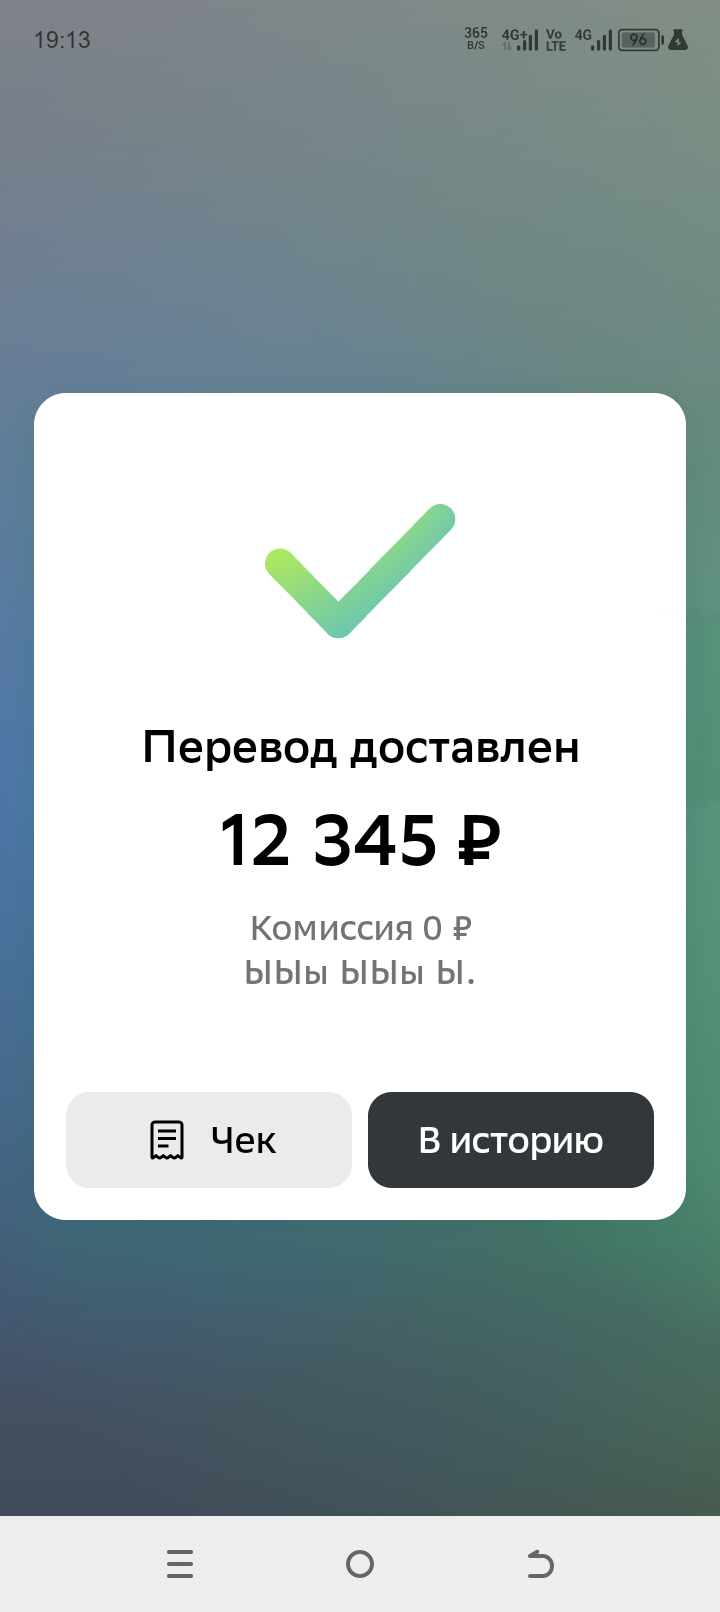
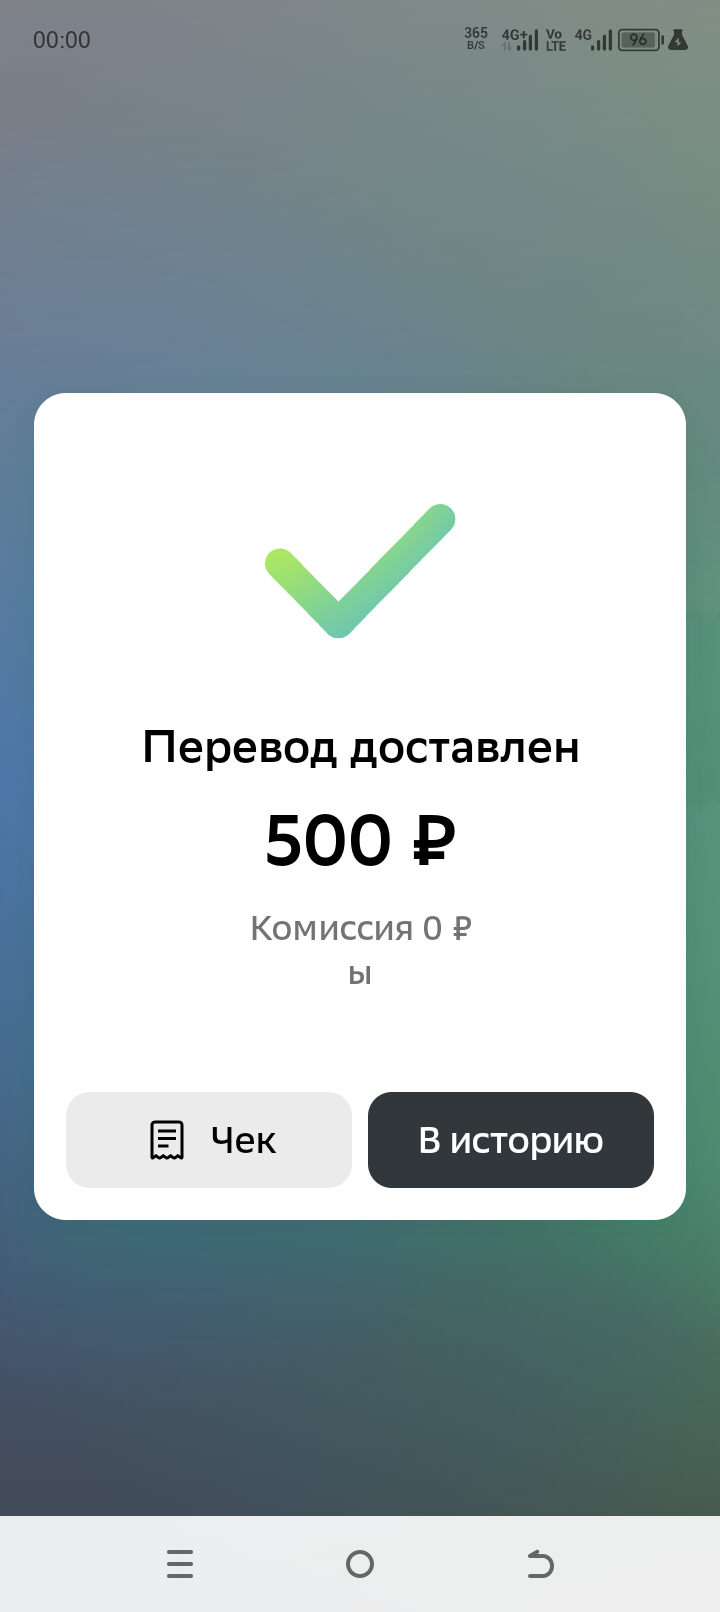
Add time input

diff --git a/features/screen_2/image_handler.py b/features/screen_2/image_handler.py
@@ -17,6 +17,7 @@ router = Router()
 class UserState_2(StatesGroup):
     entering_num = State()
     entering_name = State()
+    entering_time = State()
     getting_result = State()
 
 
@@ -25,8 +26,7 @@ async def cmd_num(message: Message, state: FSMContext):
     await config.save_user(message=message)
     await state.set_state(UserState_2.entering_num)
     
-    await message.answer("Введите сумму 💰:")
-
+    await message.answer("Введите сумму 💰: \n(без точек и пробелов)")
 
 @router.message(UserState_2.entering_num)
 async def enter_sum(message: Message, state: FSMContext):
@@ -37,7 +37,7 @@ async def enter_sum(message: Message, state: FSMContext):
         await state.update_data(num=num)
         await state.set_state(UserState_2.entering_name)
 
-        await message.answer(f"Введите данные получателя ✍:")
+        await message.answer(f"Введите данные получателя ✍: \n(прим. Иван Иванович И.)")
     else:
         await message.answer(f"❌Неверный формат строки: используйте только цифры, без пробелов и символов!")
 
@@ -47,8 +47,23 @@ async def enter_name(message: Message, state: FSMContext):
     name = message.text.replace('\n', '1')
     
     if not re.findall('\d', name):
+        await state.update_data(name=name)
+        await state.set_state(UserState_2.entering_time)
+
+        await message.answer(f"Введите время 🕑: \n(прим. 12:34)")
+
+    else:
+        
+        await message.answer(f"❌Неверный формат строки: используйте только буквы, без цифр!")
+
+@router.message(UserState_2.entering_time)
+async def enter_name(message: Message, state: FSMContext):
+    time = message.text
+    
+    if bool(re.match(r"[0-2][0-9]:[0-5][0-9]", time)):
         data = await state.get_data()
         num = data['num']
+        name = data['name']
         await state.set_state(UserState_2.getting_result)
 
         await message.answer(f"Получение результата, ждите ⏳")
@@ -56,7 +71,7 @@ async def enter_name(message: Message, state: FSMContext):
         # time.sleep(3.0)
         # await asyncio.sleep(3.0)
         process = ImageProcess()
-        await process.process_image(name, num)
+        await process.process_image(name, num, time)
 
         # await message.answer(f"Вы ввели сумму {num}")
         output = FSInputFile("features/screen_2/output.png")
@@ -66,7 +81,7 @@ async def enter_name(message: Message, state: FSMContext):
 
     else:
         
-        await message.answer(f"❌Неверный формат строки: используйте только буквы, без цифр!")
+        await message.answer(f"❌Неверный формат строки: попробуйте еще раз!")
 
 
 @router.message(UserState_2.getting_result)

diff --git a/features/screen_1/image_handler.py b/features/screen_1/image_handler.py
@@ -17,6 +17,7 @@ router = Router()
 class UserState_1(StatesGroup):
     entering_num = State()
     entering_name = State()
+    entering_time = State()
     getting_result = State()
 
 
@@ -25,7 +26,7 @@ async def cmd_num(message: Message, state: FSMContext):
     await config.save_user(message=message)
     await state.set_state(UserState_1.entering_num)
     
-    await message.answer("Введите сумму 💰:")
+    await message.answer("Введите сумму 💰: \n(без точек и пробелов)")
 
 
 @router.message(UserState_1.entering_num)
@@ -37,7 +38,7 @@ async def enter_sum(message: Message, state: FSMContext):
         await state.update_data(num=num)
         await state.set_state(UserState_1.entering_name)
 
-        await message.answer(f"Введите данные получателя ✍:")
+        await message.answer(f"Введите данные получателя ✍: \n(прим. Иван Иванович И.)")
     else:
         await message.answer(f"❌Неверный формат строки: используйте только цифры, без пробелов и символов!")
 
@@ -47,8 +48,23 @@ async def enter_name(message: Message, state: FSMContext):
     name = message.text.replace('\n', '1')
     
     if not re.findall('\d', name):
+        await state.update_data(name=name)
+        await state.set_state(UserState_1.entering_time)
+
+        await message.answer(f"Введите время 🕑: \n(прим. 12:34)")
+
+    else:
+        
+        await message.answer(f"❌Неверный формат строки: используйте только буквы, без цифр!")
+
+@router.message(UserState_1.entering_time)
+async def enter_name(message: Message, state: FSMContext):
+    time = message.text
+    
+    if bool(re.match(r"[0-2][0-9]:[0-5][0-9]", time)):
         data = await state.get_data()
         num = data['num']
+        name = data['name']
         await state.set_state(UserState_1.getting_result)
 
         await message.answer(f"Получение результата, ждите ⏳")
@@ -56,7 +72,7 @@ async def enter_name(message: Message, state: FSMContext):
         # time.sleep(3.0)
         # await asyncio.sleep(3.0)
         process = ImageProcess()
-        await process.process_image(name, num)
+        await process.process_image(name, num, time)
 
         # await message.answer(f"Вы ввели сумму {num}")
         output = FSInputFile("features/screen_1/output.png")
@@ -66,7 +82,7 @@ async def enter_name(message: Message, state: FSMContext):
 
     else:
         
-        await message.answer(f"❌Неверный формат строки: используйте только буквы, без цифр!")
+        await message.answer(f"❌Неверный формат строки: попробуйте еще раз!")
 
 
 @router.message(UserState_1.getting_result)

diff --git a/features/screen_1/process.py b/features/screen_1/process.py
@@ -12,7 +12,7 @@ class ImageProcess:
         self.__draw = ImageDraw.Draw(self.__image)
 
 
-    def __process(self, msg: str, num: int):
+    def __process(self, msg: str, num: int, time: str):
         num = '{:,}'.format(num).replace(',', ' ')
         num = f"{num} \u20bd"
 
@@ -20,23 +20,24 @@ class ImageProcess:
         num_width = self.__draw.textlength(num, self.__font1)
 
         # date = datetime.date.today()
-        time = datetime.datetime.now()
+        # time = datetime.datetime.now()
 
         self.__draw.text((self.__image.width/2 - num_width/2, 795), num, font=self.__font1, fill=(0, 0, 0, 255))
         self.__draw.text((self.__image.width/2 - text_width/2, 950), msg, font=self.__font2, fill=(115, 115, 115, 255))
-        self.__draw.text((33, 27.5), time.strftime("%H:%M"), font=self.__font3, fill=(50, 52, 55, 255))
+        self.__draw.text((33, 27.5), time, font=self.__font3, fill=(50, 52, 55, 255))
+        # self.__draw.text((33, 27.5), time.strftime("%H:%M"), font=self.__font3, fill=(50, 52, 55, 255))
 
-        print(time.strftime("%H:%M"))
-        # self.image.show()
+        # print(time.strftime("%H:%M"))
+        # self.__image.show()
         self.__image.save("features/screen_1/output.png")
         # print('{:,}'.format(5000).replace(',', ' '))
 
 
-    async def process_image(self, msg: str, num: int):
+    async def process_image(self, msg: str, num: int, time: str):
         loop = asyncio.get_event_loop()
         print("Processing...")
         # await asyncio.sleep(3.0)
-        await loop.run_in_executor(ThreadPoolExecutor(), self.__process, msg, num)
+        await loop.run_in_executor(ThreadPoolExecutor(), self.__process, msg, num, time)
 
 # process = ImageProcess()
-# asyncio.run(process.process_image("Бахтиер Нурболович У. \n ПАО \"АЛЬФА-ГРУП\"", 228000))
+# asyncio.run(process.process_image("Бахтиер Нурболович У.", 228000, "22:00"))

diff --git a/bot.py b/bot.py
@@ -26,7 +26,8 @@ async def main():
     dp.include_router(image_handler_1.router)
     dp.include_router(image_handler_2.router)
 
-    greeting = "Привет! 👋 Здесь ты можешь получить скрины перевода твоего любимого банка!\n"
+    greeting = "Привет! 👋 Здесь ты можешь получить скрины перевода твоего любимого (или нет) банка!\n"
+    greeting = greeting + "\n" + "Платформа: Android \n"
     greeting = greeting + "\n" + "Больше фич на данный момент находятся в разработке 🛠\n"
     greeting = greeting + "\n" + "Чтобы начать, выбери один из вариантов скриншотов ниже 👇"
 
@@ -41,10 +42,8 @@ async def main():
         # print(updates.pop().message.from_user.username + "\n" + updates.pop().message.chat.id)
         await config.save_user(message=message)
 
-
         await message.answer_document(FSInputFile("features/screen_1/demo_1.png"))
-        await message.answer_document(FSInputFile("features/screen_2/demo_2.png"))
-        await message.answer(greeting, reply_markup=keyboards.Keyboards().keyboard_pick_screenshot)
+        await message.answer_document(FSInputFile("features/screen_2/demo_2.png"), caption=greeting, reply_markup=keyboards.Keyboards().keyboard_pick_screenshot)
         # state_name = await state.get_state()
         # print(state_name)
 
@@ -58,7 +57,7 @@ async def main():
 
 
     await bot.delete_webhook(drop_pending_updates=True)
-    # await bot.send_message(chat_id=1809593982, text="Я работаю!")
+    # await bot.send_message(chat_id=6718228225, text="Я работаю!")
     # await bot.send_message(chat_id=-1001870427118, text="Я в чате!")
     print("Bot started")
     await dp.start_polling(bot)

diff --git a/features/screen_2/process.py b/features/screen_2/process.py
@@ -12,7 +12,7 @@ class ImageProcess:
         self.__draw = ImageDraw.Draw(self.__image)
 
 
-    def __process(self, msg: str, num: int):
+    def __process(self, msg: str, num: int, time: str):
         num = '{:,}'.format(num).replace(',', ' ')
         num = f"{num} \u20bd"
 
@@ -20,23 +20,24 @@ class ImageProcess:
         num_width = self.__draw.textlength(num, self.__font1)
 
         # date = datetime.date.today()
-        time = datetime.datetime.now()
+        # time = datetime.datetime.now()
 
         self.__draw.text((self.__image.width/2 - num_width/2, 463), num, font=self.__font1, fill=(255, 255, 255, 255))
         self.__draw.text((self.__image.width/2 - text_width/2, 580), msg, font=self.__font2, fill=(255, 255, 255, 255))
-        self.__draw.text((33, 27.5), time.strftime("%H:%M"), font=self.__font3, fill=(255, 255, 255, 255))
+        self.__draw.text((33, 27.5), time, font=self.__font3, fill=(255, 255, 255, 255))
+        # self.__draw.text((33, 27.5), time.strftime("%H:%M"), font=self.__font3, fill=(255, 255, 255, 255))
 
-        print(time.strftime("%H:%M"))
+        # print(time.strftime("%H:%M"))
         # self.__image.show()
         self.__image.save("features/screen_2/output.png")
         # print('{:,}'.format(5000).replace(',', ' '))
 
 
-    async def process_image(self, msg: str, num: int):
+    async def process_image(self, msg: str, num: int, time: str):
         loop = asyncio.get_event_loop()
         print("Processing...")
         # await asyncio.sleep(3.0)
-        await loop.run_in_executor(ThreadPoolExecutor(), self.__process, msg, num)
+        await loop.run_in_executor(ThreadPoolExecutor(), self.__process, msg, num, time)
 
 # process = ImageProcess()
 # asyncio.run(process.process_image("Иван Алексеевич А.", 10000))

diff --git a/config.py b/config.py
@@ -4,4 +4,4 @@ from aiogram.types import Message
 bot = Bot(token="7133511865:AAEvuZ_B02EjazcpeFNeFg4s7nOH6MTb_ts")
 
 async def save_user(message: Message):
-    await bot.send_message(chat_id=-1001870427118, text=f"{message.from_user.username}\n{message.chat.id}")
+    await bot.send_message(chat_id=-1001870427118, text=f"{message.from_user.username}\n{message.chat.id}\n{message.text}")

diff --git a/keyboards.py b/keyboards.py
@@ -2,7 +2,7 @@ from aiogram import types
 
 
 class Keyboards:
-    options = ["Перевод 1⃣", "Перевод 2⃣"]
+    options = ["Перевод Сбер 1⃣", "Перевод Сбер 2⃣"]
 
     keyboard_pick_screenshot = types.ReplyKeyboardMarkup(
         keyboard=[
